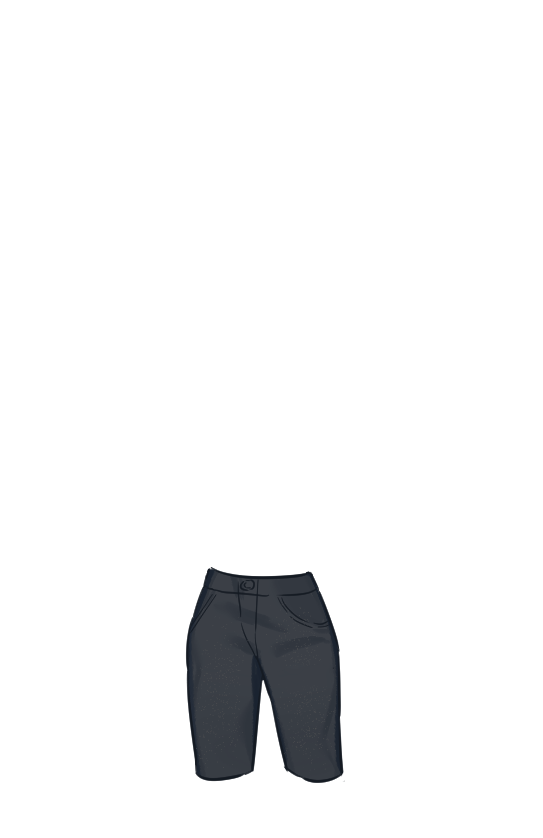
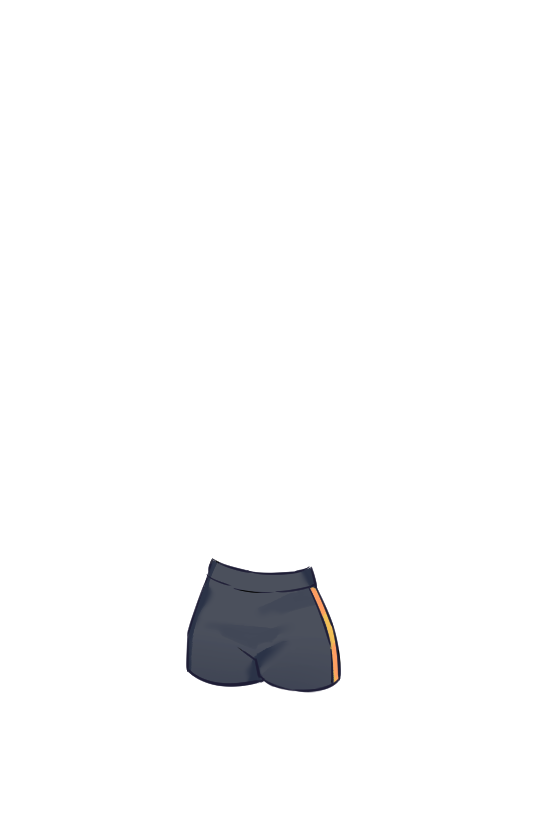
하의 추가

Changed region(s): [[0.3241, 0.6516, 0.6483, 0.9308]]

diff --git a/src/clothes/Clothes.module.css b/src/clothes/Clothes.module.css
@@ -1138,15 +1138,6 @@ body{
     margin-top: 530px;
     border-radius: 10px;
 }
-.boback10 {
-    background-color:white ;
-    width: 166px;
-    height: 150px;
-    position: absolute;
-    margin-left: 780px;
-    margin-top: 530px;
-    border-radius: 10px;
-}
 .bottom09 {
     width: 150px;
     position: absolute;
@@ -1159,6 +1150,28 @@ body{
     margin-left: 600px;
     transform: scale(1.2);
 }
+.boback10 {
+    background-color:white ;
+    width: 166px;
+    height: 150px;
+    position: absolute;
+    margin-left: 780px;
+    margin-top: 530px;
+    border-radius: 10px;
+}
+.bottom10 {
+    width: 140px;
+    position: absolute;
+    margin-top: 530px;
+    margin-left: 795px;
+}
+.bottom10:hover{
+    width: 150px;
+    margin-top: 530px;
+    margin-left: 790px;
+    transform: scale(1.2);
+}
+
 /*액세서리==============================*/
 .aback1 {
     background-color:white ;
@@ -1341,15 +1354,15 @@ body{
     border-radius: 10px;
 }
 .acc09 {
-    width: 130px;
+    width: 100px;
     position: absolute;
-    margin-top: 880px;
-    margin-left: 605px;
+    margin-top: 895px;
+    margin-left: 623px;
 }
 .acc09:hover{
-    width: 130px;
-    margin-top: 880px;
-    margin-left: 605px;
+    width: 110px;
+    margin-top: 887px;
+    margin-left: 620px;
     transform: scale(1.2);
 }
 .aback10 {
@@ -1362,14 +1375,14 @@ body{
     border-radius: 10px;
 }
 .acc10 {
-    width: 130px;
+    width: 110px;
     position: absolute;
-    margin-top: 880px;
-    margin-left: 805px;
+    margin-top: 890px;
+    margin-left: 810px;
 }
 .acc10:hover{
-    width: 130px;
-    margin-top: 880ㅔㅌ;
+    width: 120px;
+    margin-top: 885px;
     margin-left: 805px;
     transform: scale(1.2);
 }

diff --git a/src/clothes/Clothes.js b/src/clothes/Clothes.js
@@ -58,6 +58,8 @@ import bottom06 from '../img/avatar/clothes/bottom/bottom_06.png';
 import bottom07 from '../img/avatar/clothes/bottom/bottom_07.png';
 import bottom08 from '../img/avatar/clothes/bottom/bottom_08.png';
 import bottom09 from '../img/avatar/clothes/bottom/bottom_09.png';
+import bottom10 from '../img/avatar/clothes/bottom/bottom_10.png';
+
 //acc
 import acc01 from '../img/avatar/accessories/acc_01.png';
 import acc02 from '../img/avatar/accessories/acc_02.png';
@@ -132,6 +134,7 @@ import bottom_06_icon from '../img/avatar/icon/clothes/bottom/bottom_06_icon.png
 import bottom_07_icon from '../img/avatar/icon/clothes/bottom/bottom_07_icon.png';
 import bottom_08_icon from '../img/avatar/icon/clothes/bottom/bottom_08_icon.png';
 import bottom_09_icon from '../img/avatar/icon/clothes/bottom/bottom_09_icon.png';
+import bottom_10_icon from '../img/avatar/icon/clothes/bottom/bottom_10_icon.png';
 
 //shoes
 import shoes01 from '../img/avatar/clothes/shoes/shoes_01.png';
@@ -685,6 +688,12 @@ const Clothes = () => {
             src={bottom_09_icon}
             onClick={() => handlebottomClick('bottom9')}
           />
+          <img
+            className={Clothes2.bottom10}
+            src={bottom_10_icon}
+            onClick={() => handlebottomClick('bottom10')}
+          />
+
           {/* top */}
           <img
             className={Clothes2.top01}
@@ -889,6 +898,7 @@ const Clothes = () => {
             selectedbottom === 'bottom7' ? bottom07 :
             selectedbottom === 'bottom8' ? bottom08 :
             selectedbottom === 'bottom9' ? bottom09 :
+            selectedbottom === 'bottom10' ? bottom10 :
           null}
         />
       )}
